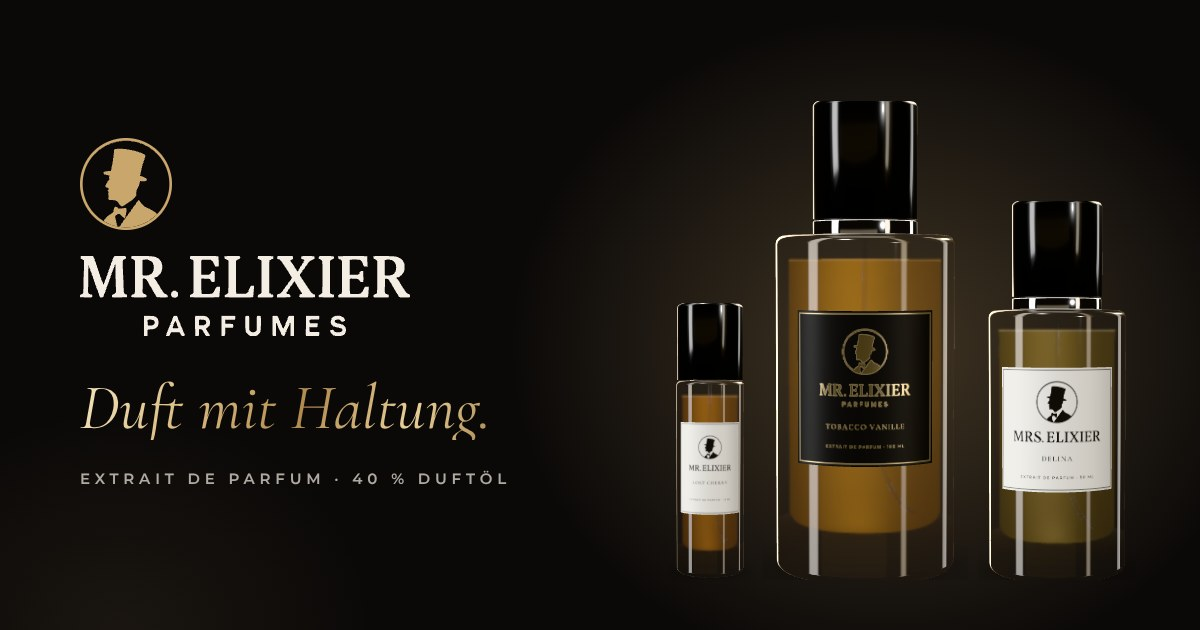
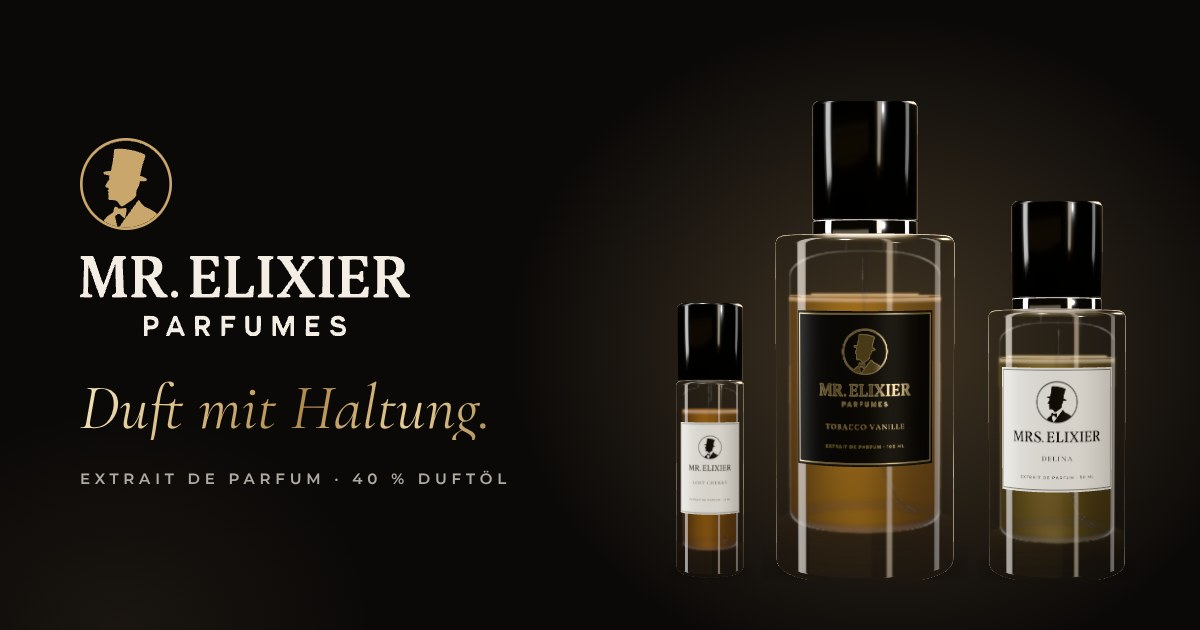
Flakon mit Innenraum und Füllstand: Lichtbrechung an Spiegel, Schulter und Boden
- Füllstand nicht mehr bis zum Rand: Luft unter der Schulter wie bei einem
  echten, gefüllten Flakon
- Flüssigkeitsspiegel bricht das Licht: feine dunkle Linie, darunter ein
  heller Streifen (Totalreflexion), von oben heller Meniskus
- Innenraum des Glases modelliert: Wände, Wölbung bis zur Öffnung für den
  Zerstäuber und runde Bodenkante zeichnen sich als Brechungslinien ab
  (vor hellem Grund dunkel, vor dunklem hell)
- gezeichnete Flakons entsprechend; Link-Vorschaubild erneuert

Claude-Session: https://claude.ai/code/session_016FTMStm1rLe5bF12at1q9K

diff --git a/mr-elixier/components/bottle3d/stage.ts b/mr-elixier/components/bottle3d/stage.ts
@@ -35,7 +35,7 @@ import {
 import { perfumeDepth, perfumeLiquid } from "@/lib/color";
 import type { SizeMl } from "@/lib/config";
 import { drawLabel, type LabelScent } from "./label";
-import { CAP_GAP, SPECS, labelArc, totalHeight } from "./specs";
+import { CAP_GAP, SPECS, interior, labelArc, totalHeight } from "./specs";
 
 /*
  * 3D-Bühne für einen Mr.-Elixier-Flakon (three.js): klares Glas mit echter Lichtbrechung,
@@ -133,12 +133,12 @@ const LIQUID_FRAGMENT = /* glsl */ `
     float above = dot(vWorld - uLevel, uUp);
     if (above > 0.0) discard;
 
-    // Wasserlinie: heller Meniskus direkt unter dem Spiegel
-    float meniscus = 1.0 - smoothstep(0.0, 0.55, -above);
+    float depth = -above;
+    float meniscus = 1.0 - smoothstep(0.0, 0.55, depth);
 
     if (!gl_FrontFacing) {
-      // Spiegel von oben gesehen: fast klar, mit hellem Rand
-      gl_FragColor = premultiplied(uColor, uColor * 0.12 * meniscus + vec3(0.05) * meniscus, 0.07 + uDensity * 0.1);
+      // Spiegel von oben gesehen: spiegelt Licht, zum Rand (Meniskus) heller
+      gl_FragColor = premultiplied(uColor, uColor * 0.1 + vec3(0.07) + vec3(0.1) * meniscus, 0.12 + uDensity * 0.12);
       return;
     }
 
@@ -158,9 +158,66 @@ const LIQUID_FRAGMENT = /* glsl */ `
     vec3 light = uColor * uBacklight * (0.02 + 0.11 * glow) * (0.3 + 0.7 * uDensity) * (1.0 - edge) * mix(0.7, 1.0, h);
     float caustic = exp(-pow(n.x + 0.04, 2.0) / 0.05) * (1.0 - smoothstep(0.0, 0.18, h));
     light += uColor * 0.03 * caustic;
-    light += vec3(0.05) * meniscus;
+    // Spiegel von der Seite: feine dunkle Linie, darunter ein heller Streifen, weil die
+    // Unterseite des Spiegels das Licht zurückwirft (Totalreflexion)
+    float surfaceLine = 1.0 - smoothstep(0.08, 0.32, depth);
+    float reflection = smoothstep(0.22, 0.42, depth) * (1.0 - smoothstep(0.42, 1.7, depth));
+    body *= 1.0 - 0.55 * surfaceLine;
+    alpha = mix(alpha, 0.62, surfaceLine * 0.85);
+    light += (vec3(0.13) + uColor * 0.08) * reflection;
 
     gl_FragColor = premultiplied(body, light, alpha);
+  }
+`;
+
+const INNER_VERTEX = /* glsl */ `
+  varying vec3 vNormalView;
+  varying vec3 vViewDir;
+  varying vec3 vPos;
+  varying vec3 vNormalObj;
+  void main() {
+    vec4 mv = modelViewMatrix * vec4(position, 1.0);
+    vNormalView = normalize(normalMatrix * normal);
+    vViewDir = normalize(-mv.xyz);
+    vPos = position;
+    vNormalObj = normal;
+    gl_Position = projectionMatrix * mv;
+  }
+`;
+
+/**
+ * Innenfläche des Glases: An der Grenze Glas/Innenraum bricht das Licht – an den Wänden,
+ * in der Wölbung zur Öffnung und an der Bodenkante zeichnen sich deshalb feine Linien ab
+ * (vor hellem Grund dunkel, vor dunklem hell), mit einem hellen Saum daneben.
+ */
+const INNER_FRAGMENT = /* glsl */ `
+  ${PREMULTIPLY}
+  uniform float uLightBackground;
+  uniform float uFloor;
+  uniform float uFloorRound;
+  uniform float uRadius;
+  uniform float uDomeStart;
+  varying vec3 vNormalView;
+  varying vec3 vViewDir;
+  varying vec3 vPos;
+  varying vec3 vNormalObj;
+  void main() {
+    float edge = 1.0 - clamp(abs(dot(normalize(vNormalView), normalize(vViewDir))), 0.0, 1.0);
+    // waagerechte Flächen (Boden, oberste Rundung) liegen fast flach im Blick – nur gedämpft
+    float flatness = smoothstep(0.85, 0.99, abs(normalize(vNormalObj).y));
+    float sil = smoothstep(0.9, 0.985, edge) * (1.0 - 0.6 * flatness);
+    float rim = smoothstep(0.78, 0.9, edge) * (1.0 - smoothstep(0.9, 0.97, edge)) * (1.0 - 0.6 * flatness);
+    // Bodenkante innen
+    float r = length(vPos.xz);
+    float floorEdge = (1.0 - smoothstep(uFloorRound * 0.4, uFloorRound * 1.1, vPos.y - uFloor))
+      * smoothstep(uRadius - uFloorRound * 1.4, uRadius - uFloorRound * 0.3, r);
+    // Wölbung oben: etwas kräftiger, sie bündelt das Licht
+    float dome = smoothstep(uDomeStart - 0.3, uDomeStart + 1.2, vPos.y);
+    float strength = gl_FrontFacing ? 1.0 : 0.55;
+    vec3 lineColor = vec3(mix(0.92, 0.16, uLightBackground));
+    float alpha = clamp((sil * (0.32 + 0.18 * dome) + floorEdge * 0.26) * strength, 0.0, 0.6);
+    vec3 glint = vec3(0.07 + 0.05 * dome) * rim * strength;
+    gl_FragColor = premultiplied(lineColor, glint, alpha);
   }
 `;
 
@@ -320,7 +377,8 @@ export async function createStage(container: HTMLElement, options: StageOptions)
 
 async function buildStage(canvas: HTMLCanvasElement, options: StageOptions): Promise<Stage> {
   const spec = SPECS[options.ml];
-  const { radius: R, height: H, fillet: f, wall, base, headspace, cap } = spec;
+  const { radius: R, height: H, fillet: f, wall, base, cap } = spec;
+  const inside = interior(spec);
 
   // selbst prüfen statt three.js scheitern zu lassen – sonst landen Fehler in der Konsole
   const context = canvas.getContext("webgl2", { antialias: true, alpha: true, premultipliedAlpha: true, powerPreference: "high-performance" });
@@ -393,9 +451,19 @@ async function buildStage(canvas: HTMLCanvasElement, options: StageOptions): Pro
     ),
   );
 
-  const liquidTop = H - headspace;
-  const rl = R - wall;
-  const fl = Math.min(f * 1.4, rl * 0.25);
+  const liquidTop = inside.liquidTop;
+  const rl = inside.radius;
+  const fl = inside.floorRound;
+  /** Profil des Innenraums, um `inset` nach innen versetzt; `upTo` = wie weit in die Wölbung (0…1) */
+  const cavity = (inset: number, upTo: number): [number, number][] => {
+    const r = rl - inset;
+    const steps = 14;
+    const dome: [number, number][] = Array.from({ length: steps + 1 }, (_, i) => {
+      const t = ((i / steps) * upTo * Math.PI) / 2;
+      return [inside.neck + (r - inside.neck) * Math.cos(t), inside.domeStart + (inside.top - inset - inside.domeStart) * Math.sin(t)];
+    });
+    return [[0, inside.floor + inset], ...arc(r - fl, inside.floor + inset + fl, fl, -Math.PI / 2, 0), ...dome];
+  };
   const color = new Color(perfumeLiquid(options.scent.tint));
   const tubeRadius = Math.max(0.4, R * 0.024);
   const liquidMaterial = own(
@@ -413,12 +481,36 @@ async function buildStage(canvas: HTMLCanvasElement, options: StageOptions): Pro
       side: DoubleSide,
     }),
   );
-  // reicht bis unter die Schulter – der Spiegel schneidet sie waagerecht ab
-  const liquidCeiling = H - Math.min(headspace * 0.35, 2);
-  const liquid = new Mesh(
-    track(lathe([[0, base], ...arc(rl - fl, base + fl, fl, -Math.PI / 2, 0), [rl, liquidCeiling], [0, liquidCeiling]])),
-    liquidMaterial,
+  // füllt den Innenraum bis in die Wölbung – der Spiegel schneidet sie waagerecht ab
+  const liquidProfile = cavity(0.05, 0.5);
+  const liquid = new Mesh(track(lathe([...liquidProfile, [0, liquidProfile[liquidProfile.length - 1][1]]])), liquidMaterial);
+
+  // Innenfläche des Glases mit Lichtbrechung an Wänden, Wölbung und Bodenkante
+  const innerSurface = new Mesh(
+    track(lathe([...cavity(0, 1), [inside.neck, H - 0.1], [0, H - 0.1]])),
+    own(
+      new ShaderMaterial({
+        vertexShader: INNER_VERTEX,
+        fragmentShader: INNER_FRAGMENT,
+        uniforms: {
+          uLightBackground: { value: lightBackground ? 1 : 0 },
+          uFloor: { value: inside.floor },
+          uFloorRound: { value: fl },
+          uRadius: { value: rl },
+          uDomeStart: { value: inside.domeStart },
+        },
+        side: DoubleSide,
+        blending: CustomBlending,
+        blendSrc: OneFactor,
+        blendDst: OneMinusSrcAlphaFactor,
+        blendSrcAlpha: OneFactor,
+        blendDstAlpha: OneMinusSrcAlphaFactor,
+        depthTest: false,
+        depthWrite: false,
+      }),
+    ),
   );
+  innerSurface.renderOrder = 1;
   const levelLocal = new Vector3(0, liquidTop, 0);
   // Spiegelhöhe in der Welt
   liquid.onBeforeRender = () => {
@@ -428,7 +520,7 @@ async function buildStage(canvas: HTMLCanvasElement, options: StageOptions): Pro
   // Steigrohr: etwas länger als der Flakon, deshalb biegt es sich am Boden zur Seite und
   // die Spitze liegt in der Ecke. Gezeichnet über der Flüssigkeit (ohne Tiefentest), damit
   // es durch sie hindurch sichtbar bleibt.
-  const tubeTop = H - 0.8;
+  const tubeTop = H - 0.3;
   const bend = new Vector3(Math.cos(0.55), 0, -Math.sin(0.55));
   const at = (out: number, y: number) => bend.clone().multiplyScalar(rl * out).setY(y);
   const tubePath = new CatmullRomCurve3(
@@ -511,7 +603,9 @@ async function buildStage(canvas: HTMLCanvasElement, options: StageOptions): Pro
       }),
     ),
   );
-  const parts: Mesh[] = [glass, baseBlock, tube, liquid, label, capMesh];
+  // Kappe nach Innenfläche und Steigrohr zeichnen (die haben keinen Tiefentest)
+  capMesh.renderOrder = 3;
+  const parts: Mesh[] = [glass, baseBlock, innerSurface, tube, liquid, label, capMesh];
   if (cap.ring > 0) {
     const b = 0.3;
     const ring = new Mesh(
@@ -532,6 +626,8 @@ async function buildStage(canvas: HTMLCanvasElement, options: StageOptions): Pro
       own(new MeshStandardMaterial({ color: 0x050505, roughness: 0.6 })),
     );
     gap.position.y = ringTop + CAP_GAP / 2;
+    ring.renderOrder = 3;
+    gap.renderOrder = 3;
     parts.push(ring, gap);
   }
 

diff --git a/mr-elixier/components/bottle/Bottle.tsx b/mr-elixier/components/bottle/Bottle.tsx
@@ -2,7 +2,7 @@
 
 import { useEffect, useId, useState, type CSSProperties } from "react";
 import { SPRITE, WORDMARK } from "@/components/brand/geometry";
-import { CAP_GAP, FRAME, LABEL_LAYOUT, SPECS } from "@/components/bottle3d/specs";
+import { CAP_GAP, FRAME, LABEL_LAYOUT, SPECS, interior } from "@/components/bottle3d/specs";
 import { mix, perfumeDepth, perfumeLiquid, shade } from "@/lib/color";
 import type { SizeMl } from "@/lib/config";
 import type { Line } from "@/lib/products";
@@ -41,7 +41,10 @@ function build(ml: SizeMl) {
     body: { rx, top, bottom, r: spec.fillet * U, curve: rx * LIFT },
     wall: spec.wall * U,
     base: spec.base * U,
-    headspace: spec.headspace * U,
+    inside: (() => {
+      const i = interior(spec);
+      return { neck: i.neck * U, top: bottom - i.top * U, domeStart: bottom - i.domeStart * U, liquidTop: bottom - i.liquidTop * U };
+    })(),
     cap: { rx: spec.cap.radius * U, top: capBottom - spec.cap.height * U, bottom: capBottom, ring: spec.cap.ring * U, ringTop },
     label: { w: spec.label.width * U, top: labelTop, h: labelH, frame: layout.frame * labelH, dark: spec.label.dark },
     emblem: { y: at(layout.emblem.y), size: layout.emblem.size * labelH },
@@ -166,7 +169,23 @@ export function Bottle({ ml, name, line, tint, sweep = false, shadow = true, dec
   const right = cx + body.rx;
   const height = body.bottom - body.top;
   const outline = bodyPath(g);
-  const liquidTop = body.top + g.headspace;
+  const liquidTop = g.inside.liquidTop;
+  // Innenraum: Wände, oben gewölbt bis zur Öffnung, unten runde Bodenkante
+  const ir = body.rx - g.wall;
+  const { neck, top: innerTop, domeStart } = g.inside;
+  const floorY = body.bottom - g.base;
+  const fr = Math.min(body.r * 1.4, ir * 0.25);
+  const k = 0.5523;
+  const cavityPath = [
+    `M${n(cx - neck)},${n(innerTop)}`,
+    `C${n(cx - neck - (ir - neck) * k)},${n(innerTop)} ${n(cx - ir)},${n(domeStart - (domeStart - innerTop) * k)} ${n(cx - ir)},${n(domeStart)}`,
+    `V${n(floorY - fr)}`,
+    `Q${n(cx - ir)},${n(floorY)} ${n(cx - ir + fr)},${n(floorY)}`,
+    `H${n(cx + ir - fr)}`,
+    `Q${n(cx + ir)},${n(floorY)} ${n(cx + ir)},${n(floorY - fr)}`,
+    `V${n(domeStart)}`,
+    `C${n(cx + ir)},${n(domeStart - (domeStart - innerTop) * k)} ${n(cx + neck + (ir - neck) * k)},${n(innerTop)} ${n(cx + neck)},${n(innerTop)}`,
+  ].join("");
   const liquidBottom = body.bottom - g.base;
   const lr = Math.min(body.r * 1.4, body.rx * 0.25);
   const liquid = liquidPath(left + g.wall, right - g.wall, liquidTop, liquidBottom, lr);
@@ -352,13 +371,24 @@ export function Bottle({ ml, name, line, tint, sweep = false, shadow = true, dec
       <path d={tubePath} fill="none" stroke="#000" strokeOpacity={0.16} strokeWidth={n(tube)} strokeLinecap="round" />
       <path d={tubePath} fill="none" stroke="#fff" strokeOpacity={0.35} strokeWidth={n(tube * 0.6)} strokeLinecap="round" />
       <ellipse cx={cx} cy={n(liquidTop)} rx={n(body.rx - g.wall)} ry={n(surfaceRy)} fill={url("surface")} />
+      {/* Spiegel von der Seite: dunkle Linie, darunter heller Streifen (Totalreflexion) */}
       <path
         d={`M${n(left + g.wall)},${n(liquidTop)}A${n(body.rx - g.wall)},${n(surfaceRy)} 0 0 0 ${n(right - g.wall)},${n(liquidTop)}`}
         fill="none"
-        stroke="#fff"
-        strokeOpacity={0.5}
+        stroke="#000"
+        strokeOpacity={0.32}
         strokeWidth={n(body.rx * 0.012)}
       />
+      <path
+        d={`M${n(left + g.wall)},${n(liquidTop + body.rx * 0.03)}A${n(body.rx - g.wall)},${n(surfaceRy)} 0 0 0 ${n(right - g.wall)},${n(liquidTop + body.rx * 0.03)}`}
+        fill="none"
+        stroke="#fff"
+        strokeOpacity={0.4}
+        strokeWidth={n(body.rx * 0.03)}
+      />
+      {/* Innenraum: Wölbung zur Öffnung und Bodenkante brechen das Licht */}
+      <path d={cavityPath} fill="none" stroke="#000" strokeOpacity={0.2} strokeWidth={n(body.rx * 0.012)} />
+      <path d={cavityPath} fill="none" stroke="#fff" strokeOpacity={0.3} strokeWidth={n(body.rx * 0.02)} transform={`translate(0 ${n(body.rx * 0.02)})`} />
       <path
         d={`M${n(left + g.wall + lr)},${n(liquidBottom)}H${n(right - g.wall - lr)}`}
         stroke="#000"

diff --git a/mr-elixier/components/bottle3d/specs.ts b/mr-elixier/components/bottle3d/specs.ts
@@ -10,10 +10,9 @@ export interface BottleSpec {
   radius: number;
   height: number;
   fillet: number;
-  /** Glaswand, massiver Boden und Luft über der Flüssigkeit */
+  /** Glaswand und massiver Boden */
   wall: number;
   base: number;
-  headspace: number;
   /** Kappe (glänzend schwarz) und Chromring darunter */
   cap: { radius: number; height: number; ring: number };
   /** Etikett: sichtbare Breite von vorn, Höhe, Abstand zur Schulter */
@@ -27,7 +26,6 @@ export const SPECS: Record<SizeMl, BottleSpec> = {
     fillet: 1.3,
     wall: 2.2,
     base: 7.5,
-    headspace: 4.5,
     cap: { radius: 9.75, height: 22.25, ring: 0 },
     label: { width: 17, height: 26.5, top: 12, dark: false },
   },
@@ -37,7 +35,6 @@ export const SPECS: Record<SizeMl, BottleSpec> = {
     fillet: 2,
     wall: 3.6,
     base: 10,
-    headspace: 5.5,
     cap: { radius: 12.5, height: 26.1, ring: 3.3 },
     label: { width: 29.25, height: 32.75, top: 15.25, dark: false },
   },
@@ -47,7 +44,6 @@ export const SPECS: Record<SizeMl, BottleSpec> = {
     fillet: 2.4,
     wall: 4.4,
     base: 12.5,
-    headspace: 6.5,
     cap: { radius: 14, height: 31.2, ring: 3.9 },
     label: { width: 34.5, height: 39.5, top: 19.5, dark: true },
   },
@@ -69,6 +65,28 @@ export function frameView(ml: SizeMl, bleed: number) {
   const { h, bottom } = FRAME[ml];
   const height = h / 4;
   return { height: height * (1 + bleed * 2), centerY: -(h - bottom) / 4 + height / 2 };
+}
+
+/**
+ * Innenraum des Glases (mm, vom Glasboden aus): Wände, Boden mit runder Kante, oben eine
+ * Wölbung bis zur Öffnung für den Zerstäuber – und der Füllstand: nicht bis zum Rand,
+ * sondern mit Luft unter der Wölbung wie bei einem echten, gefüllten Flakon.
+ */
+export function interior(spec: BottleSpec) {
+  const radius = spec.radius - spec.wall;
+  const top = spec.height - spec.wall * 0.9;
+  const domeStart = top - radius * 0.35;
+  const floorRound = Math.min(spec.fillet * 1.4, radius * 0.25);
+  return {
+    radius,
+    floor: spec.base,
+    floorRound,
+    top,
+    domeStart,
+    /** Öffnung für den Zerstäuber */
+    neck: spec.cap.radius * 0.35,
+    liquidTop: domeStart - (domeStart - spec.base) * 0.08,
+  };
 }
 
 /** Fuge zwischen Kappe und Chromring */
